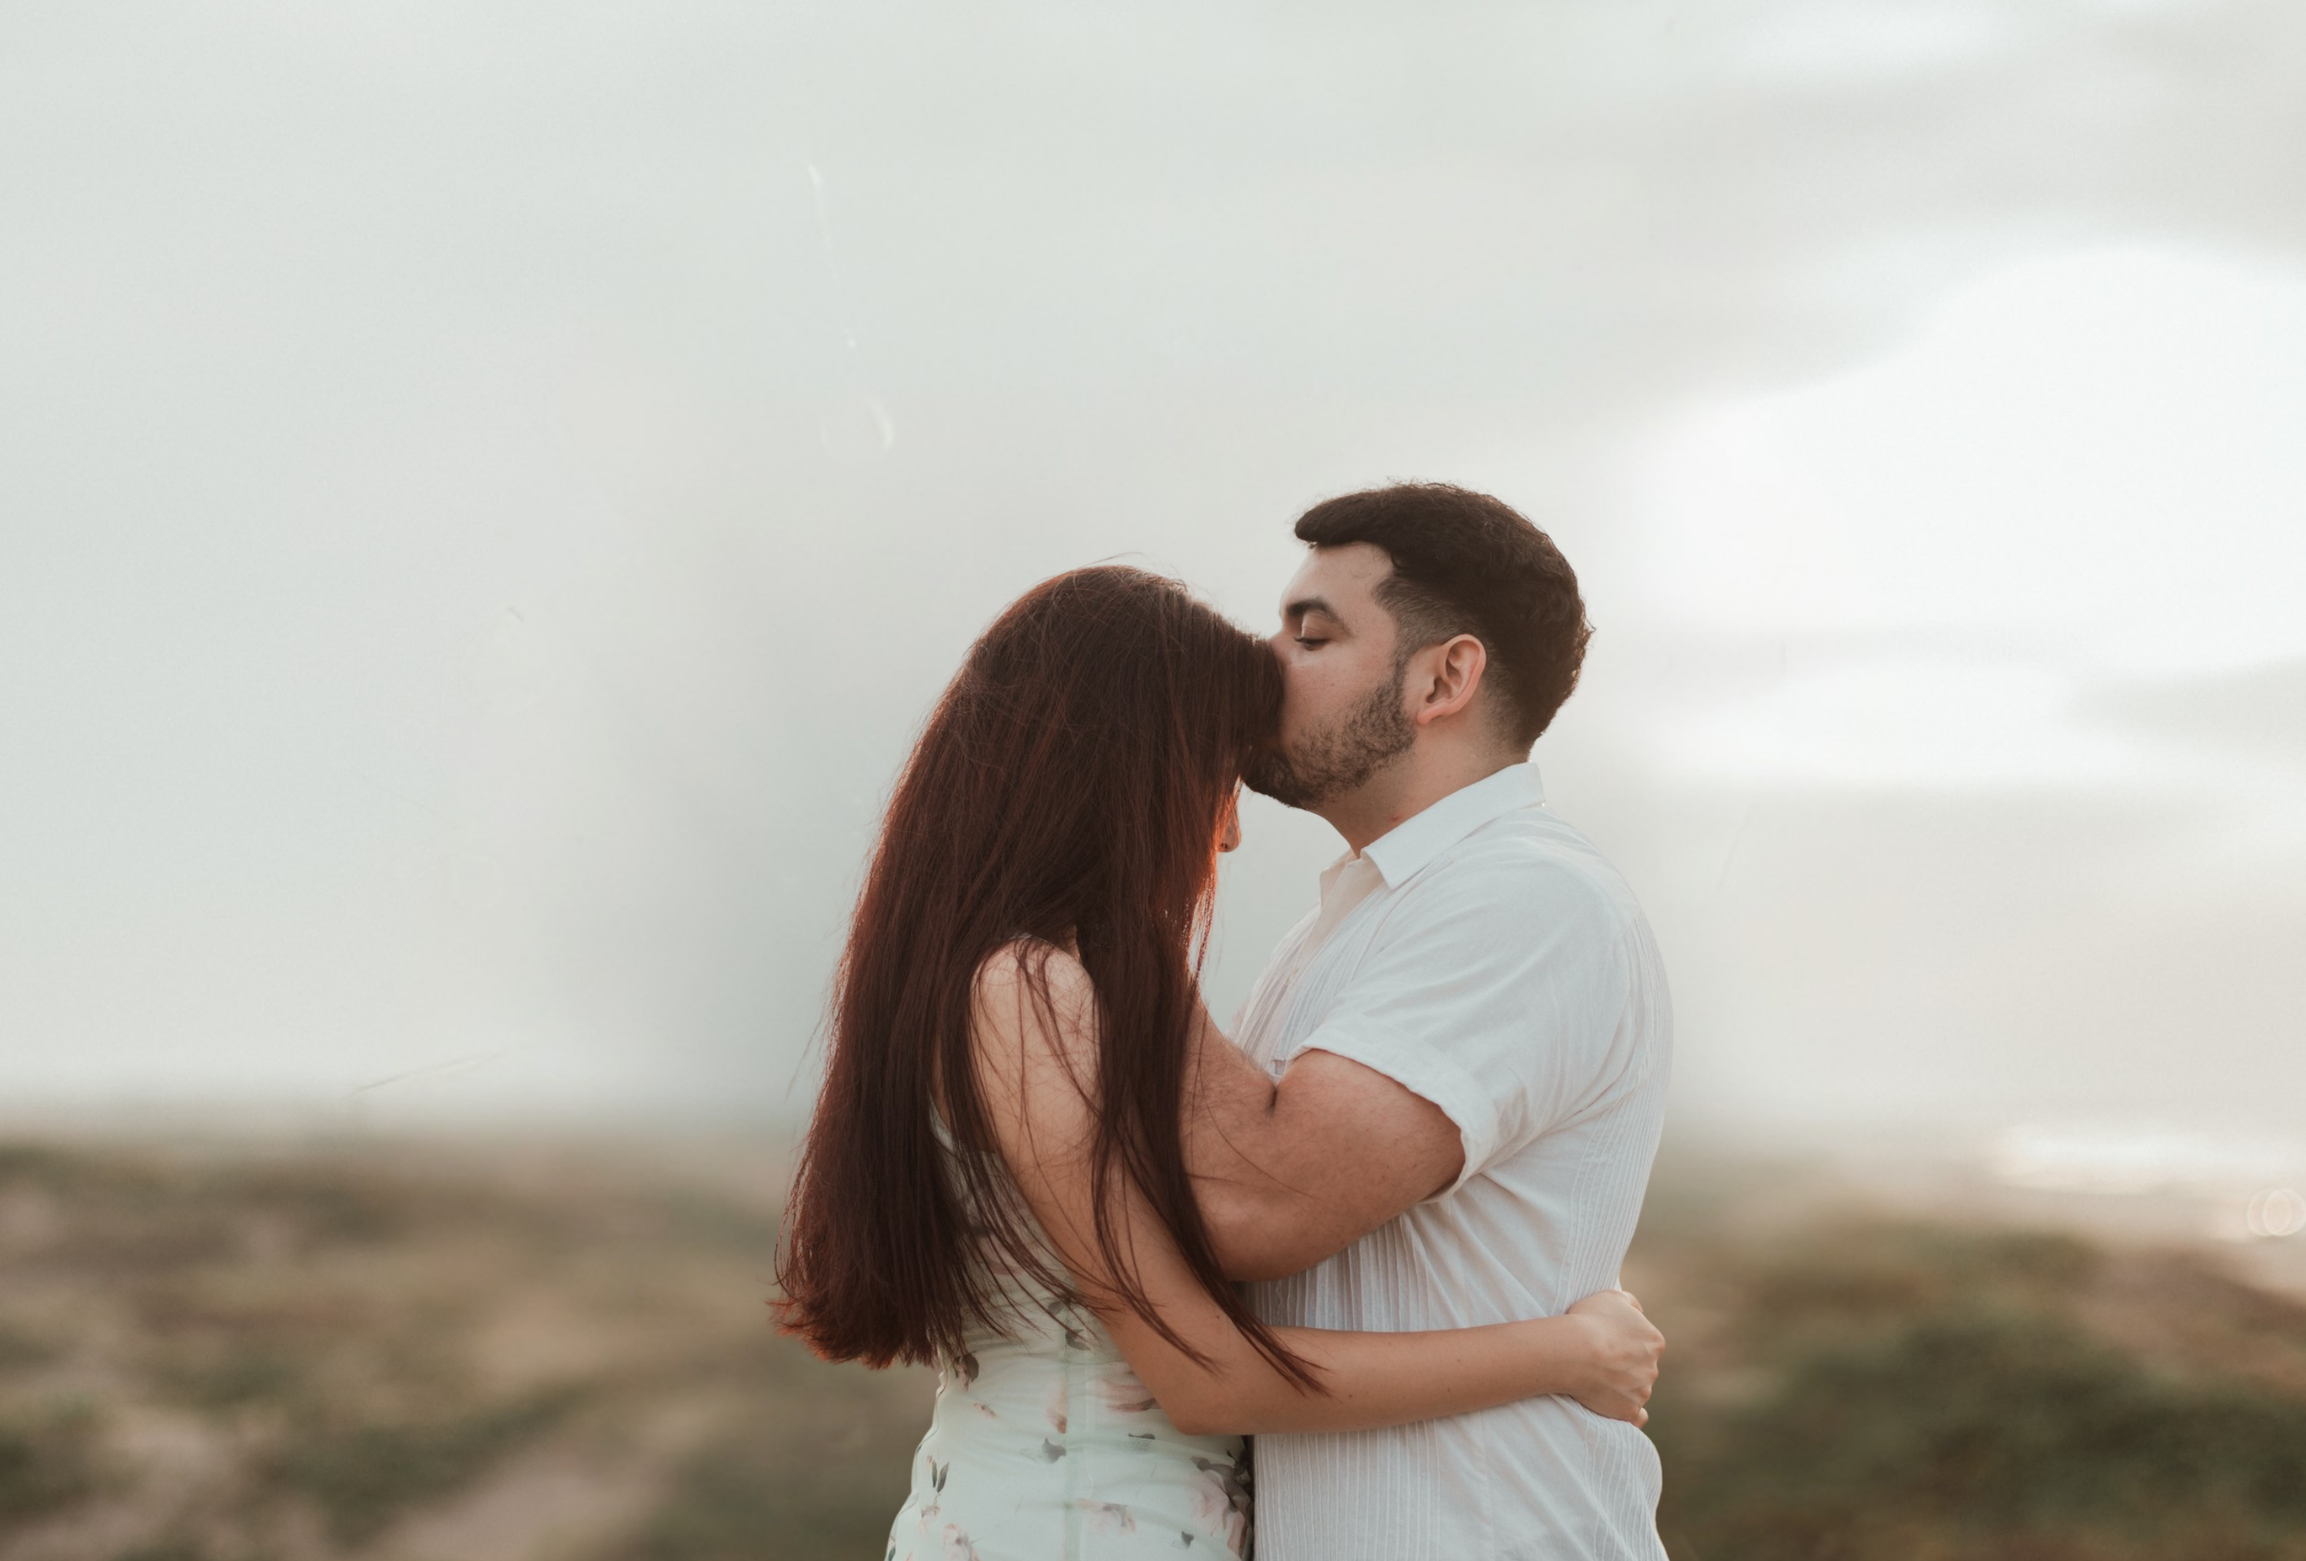
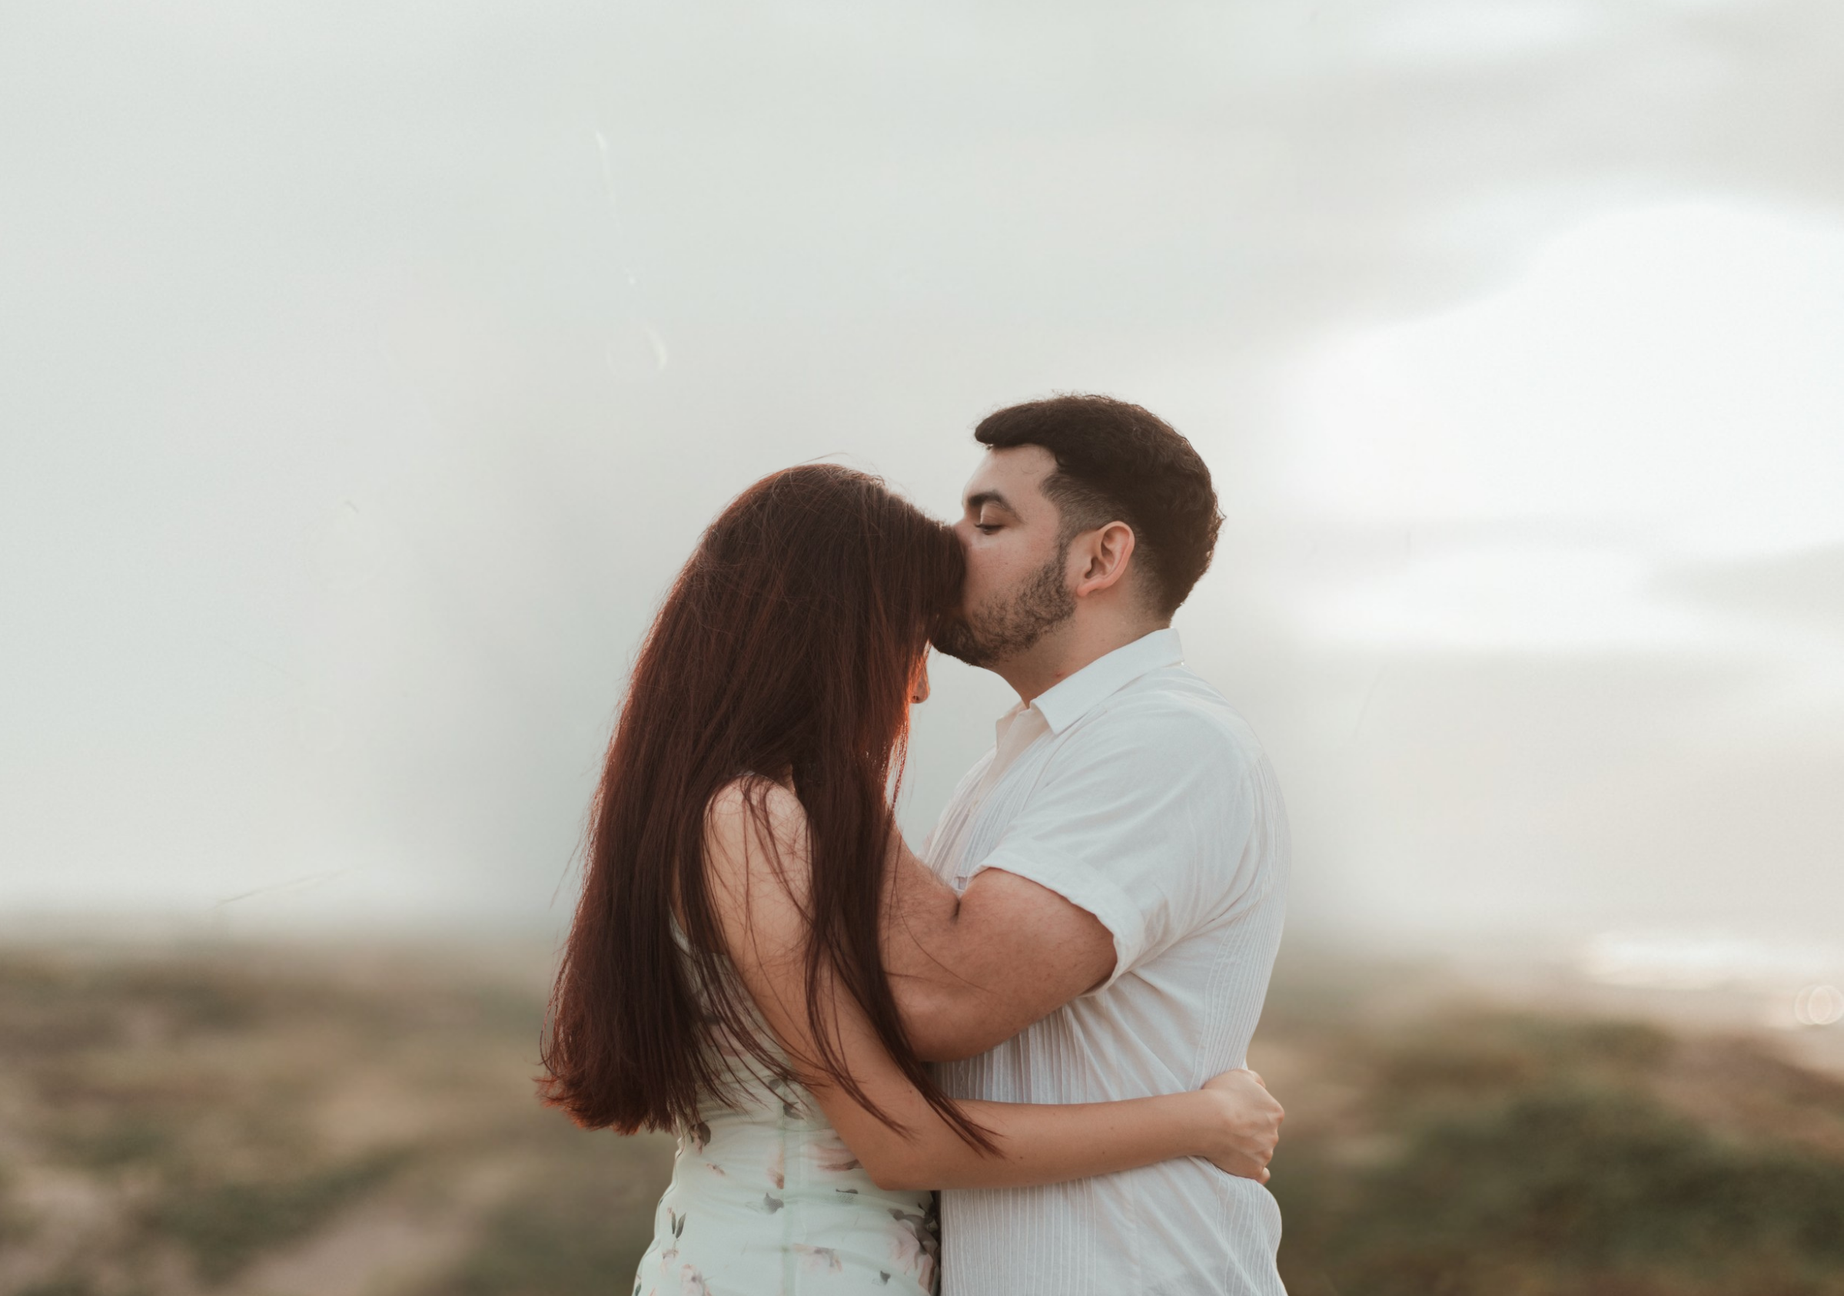
png change and scale in js

diff --git a/Kari-Rafa/kari-rafa.js b/Kari-Rafa/kari-rafa.js
@@ -197,7 +197,7 @@ const fechaObjetivo = new Date("Oct 31, 2026 16:00:00").getTime();
         
         // zoom-in
         gsap.to("#zoom-in-1", {
-            scale: .38, stagger: 0.25, duration: 3,
+            scale: .5, stagger: 0.25, duration: 3,
             scrollTrigger: {
                 trigger: "#zoom-in-1",
                 pin: false,
